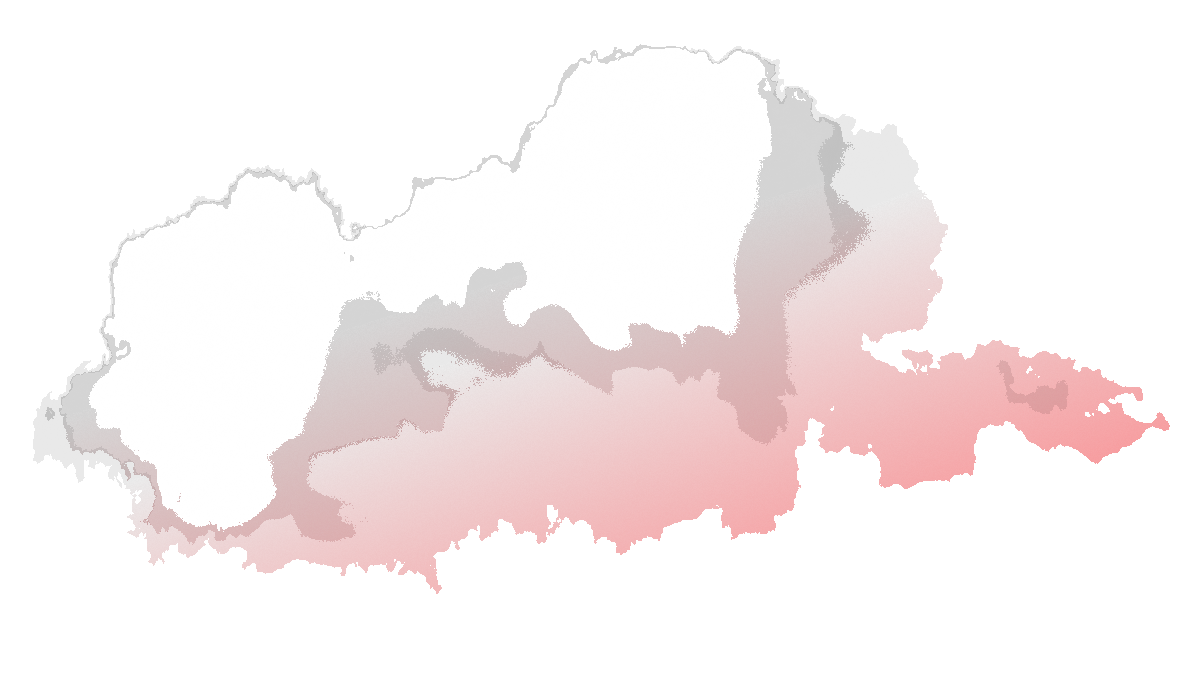
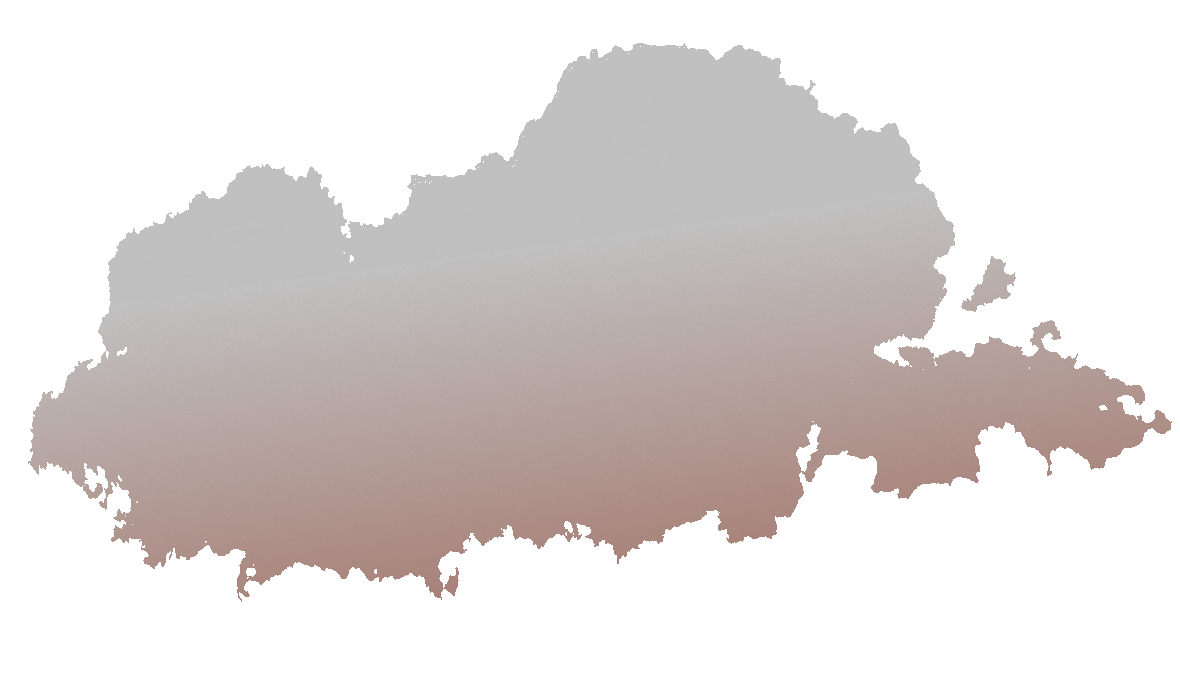
performance fix + tweaks bgs and clouds

diff --git a/levels/level.py b/levels/level.py
@@ -167,14 +167,14 @@ class Level:
                 iceCube.kill()
                 break
 
-        if(len(self.backgroundObjectsGroup.sprites()) < self.CLOUDS):
-            self.backgroundObjectsGroup.add(self.generateCloud())
-        if(len(self.backgroundTilesGroup.sprites()) < self.NB_TOT_TILES):
-            for i in range(self.NB_WIDTH_TILES):
-                self.backgroundTilesGroup.add(
-                    BackgroundObject(self.BG, pygame.Vector2(
-                        0, self.BG_SPEED), self.SIZE_TILE, topleft=(self.SIZE_TILE * i, self.OFFSET-self.SIZE_TILE))
-                )
+        # if(len(self.backgroundObjectsGroup.sprites()) < self.CLOUDS):
+        #     self.backgroundObjectsGroup.add(self.generateCloud())
+        # if(len(self.backgroundTilesGroup.sprites()) < self.NB_TOT_TILES):
+        #     for i in range(self.NB_WIDTH_TILES):
+        #         self.backgroundTilesGroup.add(
+        #             BackgroundObject(self.BG, pygame.Vector2(
+        #                 0, self.BG_SPEED), self.SIZE_TILE, topleft=(self.SIZE_TILE * i, self.OFFSET-self.SIZE_TILE))
+        #        )
 
         if self.invincibilityFrameStart is not None:
             delta = pygame.time.get_ticks() - self.invincibilityFrameStart
@@ -380,7 +380,7 @@ def loadLevel(game, screen: pygame.Surface, levelNum: int) -> Level:
             for j in range(level.NB_HEIGHT_TILES):
                 level.backgroundTilesGroup.add(
                     BackgroundObject(level.BG, pygame.Vector2(
-                        0, level.BG_SPEED), level.SIZE_TILE, topleft=(level.SIZE_TILE * i, level.SIZE_TILE * j))
+                        0, level.BG_SPEED), level.SIZE_TILE, topleft=(level.SIZE_TILE * i, level.SIZE_TILE * j), randomPos=False, OFFSET = level.OFFSET)
                 )
     
     return level

diff --git a/sprites/BackgroundObject.py b/sprites/BackgroundObject.py
@@ -1,7 +1,8 @@
+import random
 import pygame
 
 class BackgroundObject(pygame.sprite.Sprite):
-    def __init__(self, image: pygame.Surface, speed: pygame.math.Vector2(), width = None, **kwargs):
+    def __init__(self, image: pygame.Surface, speed: pygame.math.Vector2(), width = None, randomPos=True, OFFSET= 0, **kwargs):
         pygame.sprite.Sprite.__init__(self)
 
         self.speed = speed
@@ -11,7 +12,9 @@ class BackgroundObject(pygame.sprite.Sprite):
         self.rect = self.image.get_rect(**kwargs)
         self.rect.width = self.image.get_width()
         self.rect.height = self.image.get_height()
-        
+        self.randomPos = randomPos
+        self.OFFSET = OFFSET
+
         self.image = pygame.Surface.convert_alpha(self.image);
 
 
@@ -21,4 +24,6 @@ class BackgroundObject(pygame.sprite.Sprite):
         # If it goes offscreen, die
         screen = pygame.display.get_surface()
         if self.rect.top >  screen.get_height():
-            self.kill()
+            if self.randomPos: self.rect.left = random.randint(-int(self.rect.width/2), screen.get_width()+int(self.rect.width/2))
+            else: self.rect.bottom = screen.get_height()
+            self.rect.bottom = self.OFFSET
